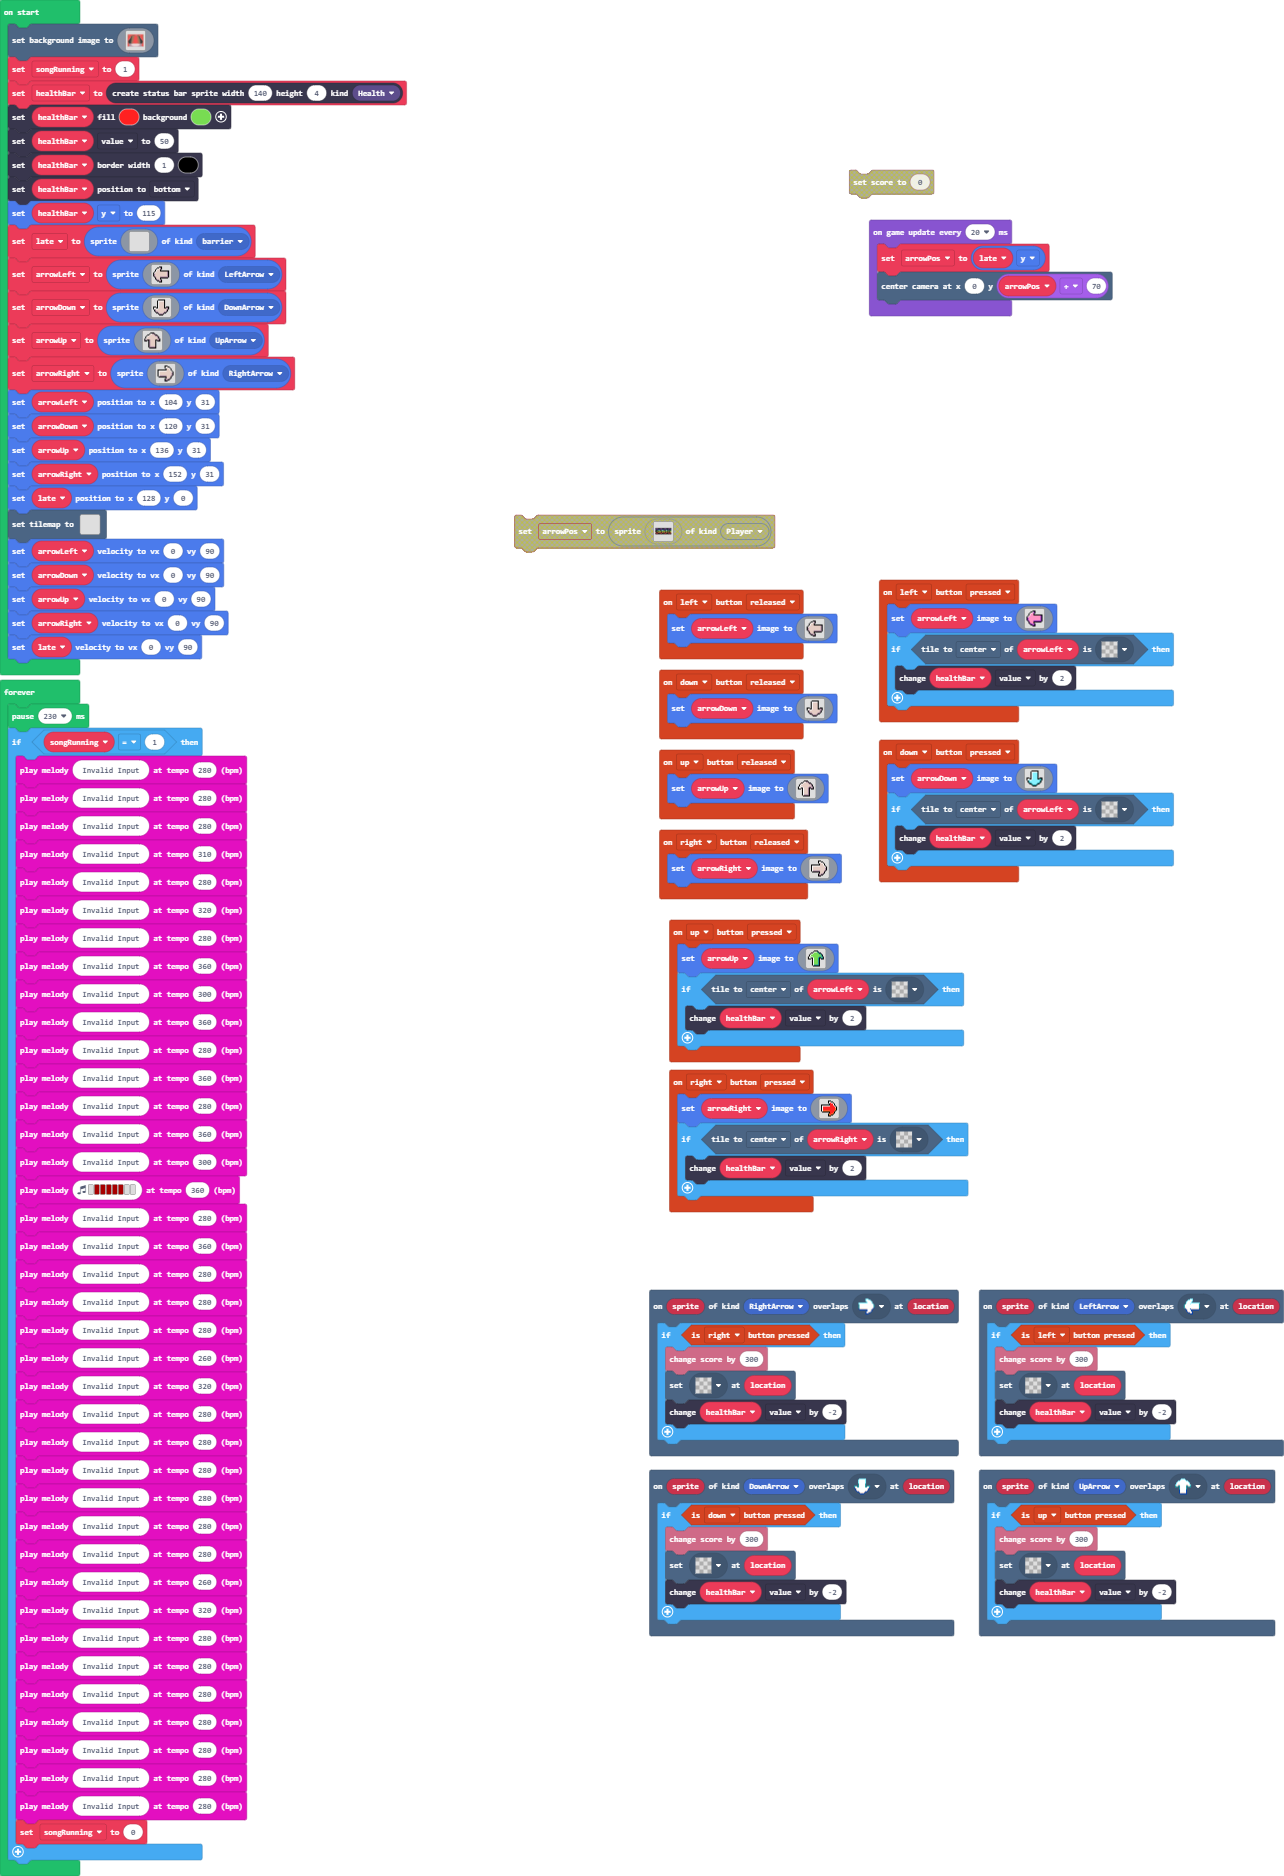
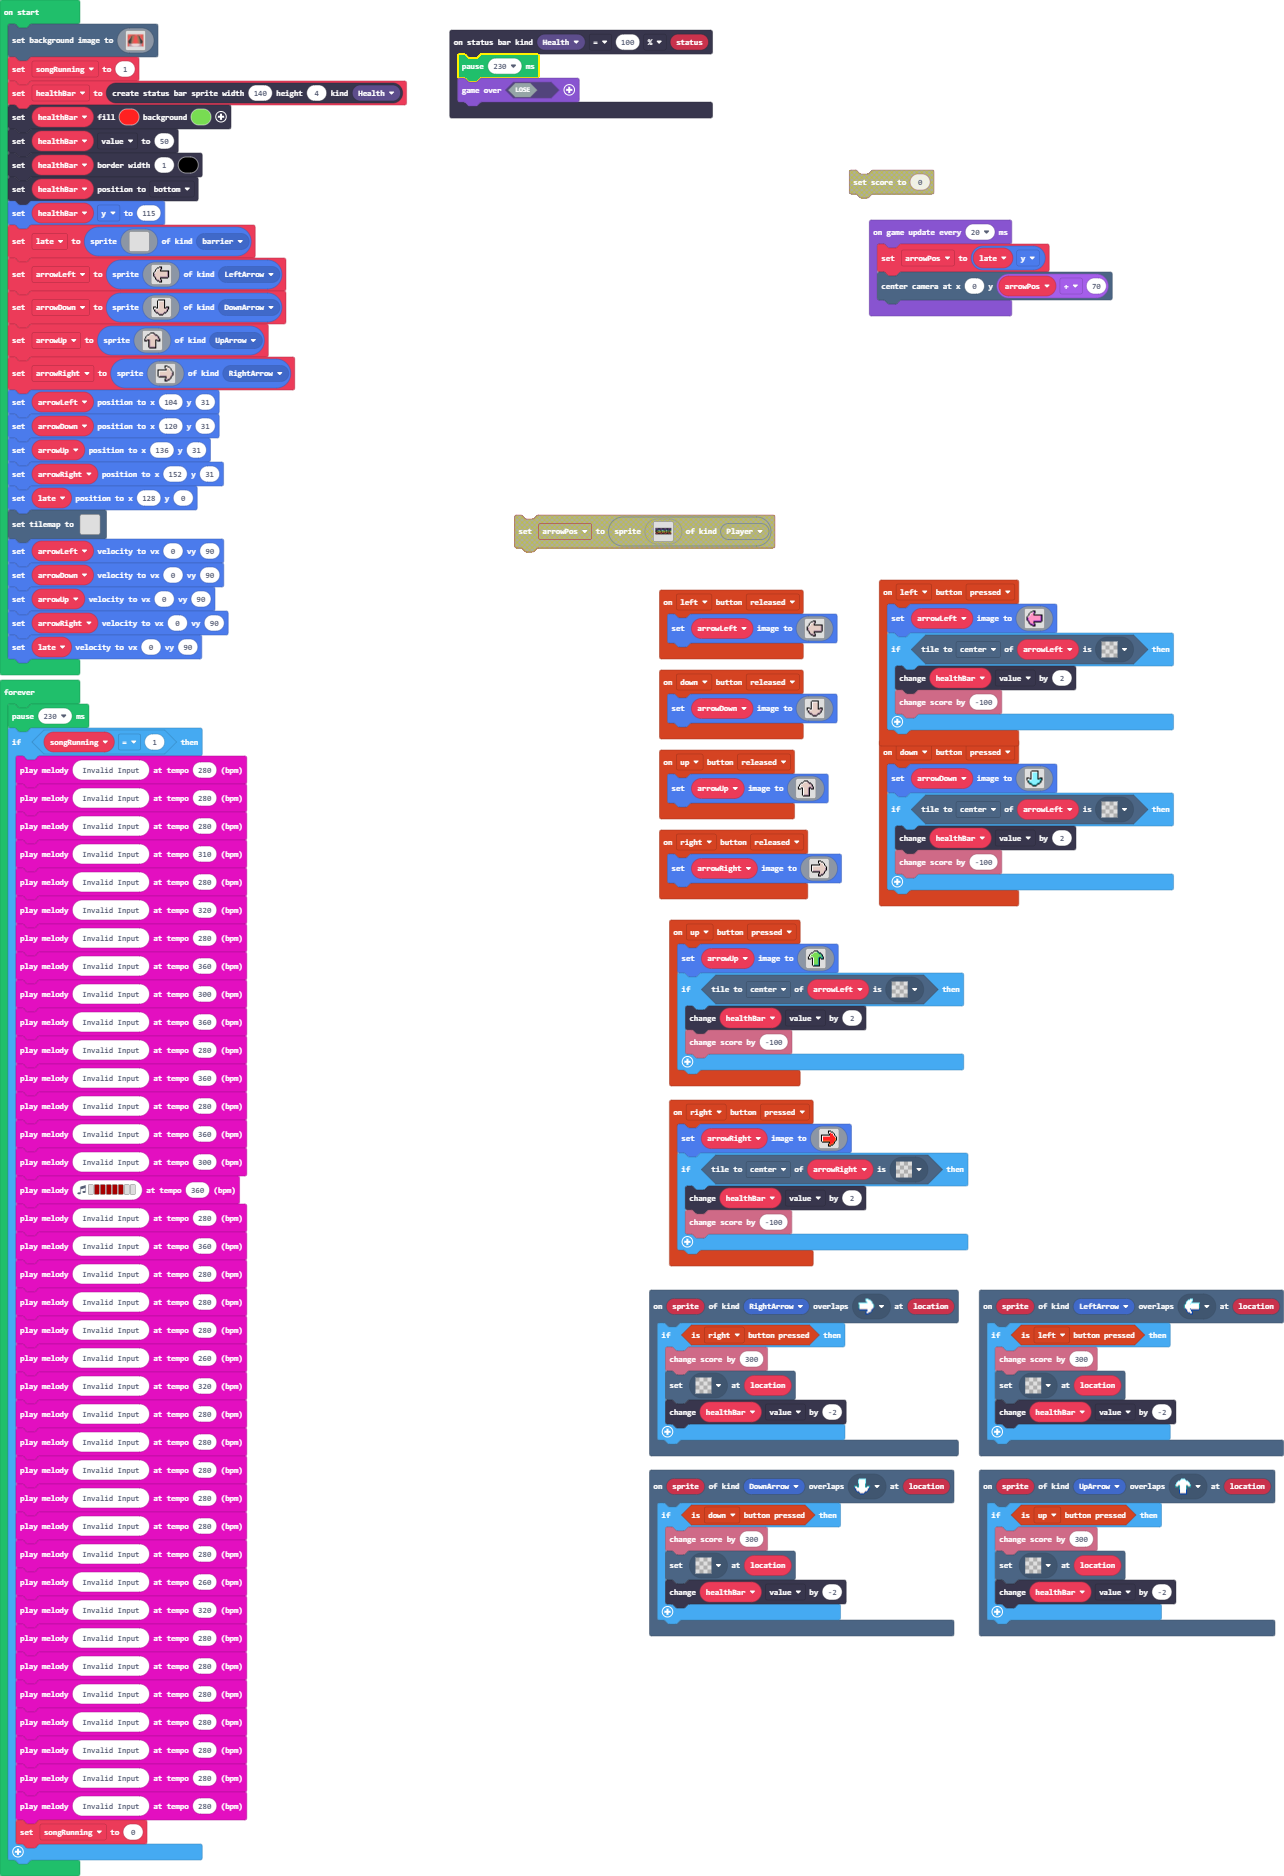
Update main.blocks, main.ts, tilemap.g.jres, tilemap.g.ts

diff --git a/main.ts b/main.ts
@@ -26,6 +26,7 @@ controller.up.onEvent(ControllerButtonEvent.Pressed, function () {
         `)
     if (arrowLeft.tileKindAt(TileDirection.Center, assets.tile`transparency16`)) {
         healthBar.value += 2
+        info.changeScoreBy(-100)
     }
 })
 scene.onOverlapTile(SpriteKind.UpArrow, assets.tile`myTile1`, function (sprite, location) {
@@ -76,6 +77,7 @@ controller.left.onEvent(ControllerButtonEvent.Pressed, function () {
         `)
     if (arrowLeft.tileKindAt(TileDirection.Center, assets.tile`transparency16`)) {
         healthBar.value += 2
+        info.changeScoreBy(-100)
     }
 })
 controller.right.onEvent(ControllerButtonEvent.Released, function () {
@@ -146,12 +148,13 @@ controller.right.onEvent(ControllerButtonEvent.Pressed, function () {
         `)
     if (arrowRight.tileKindAt(TileDirection.Center, assets.tile`transparency16`)) {
         healthBar.value += 2
+        info.changeScoreBy(-100)
     }
 })
 controller.up.onEvent(ControllerButtonEvent.Released, function () {
     arrowUp.setImage(img`
         . . . . . . f f f f . . . . . . 
-        . . . . . f 1 1 b b f . . . . . 
+        . . . . . f 1 1 1 b f . . . . . 
         . . . f f 1 d d d d b f f . . . 
         . . f 1 1 d d d d d d b b f . . 
         . f 1 d d d d d d d d d d b f . 
@@ -189,6 +192,7 @@ controller.down.onEvent(ControllerButtonEvent.Pressed, function () {
         `)
     if (arrowLeft.tileKindAt(TileDirection.Center, assets.tile`transparency16`)) {
         healthBar.value += 2
+        info.changeScoreBy(-100)
     }
 })
 scene.onOverlapTile(SpriteKind.LeftArrow, assets.tile`myTile0`, function (sprite, location) {
@@ -204,6 +208,10 @@ scene.onOverlapTile(SpriteKind.DownArrow, assets.tile`myTile`, function (sprite,
         tiles.setTileAt(location, assets.tile`transparency16`)
         healthBar.value += -2
     }
+})
+statusbars.onStatusReached(StatusBarKind.Health, statusbars.StatusComparison.EQ, statusbars.ComparisonType.Percentage, 100, function (status) {
+    pause(230)
+    game.over(false)
 })
 let arrowPos = 0
 let arrowRight: Sprite = null
@@ -396,7 +404,7 @@ arrowDown = sprites.create(img`
     `, SpriteKind.DownArrow)
 arrowUp = sprites.create(img`
     . . . . . . f f f f . . . . . . 
-    . . . . . f 1 1 b b f . . . . . 
+    . . . . . f 1 1 1 b f . . . . . 
     . . . f f 1 d d d d b f f . . . 
     . . f 1 1 d d d d d d b b f . . 
     . f 1 d d d d d d d d d d b f . 

diff --git a/tilemap.g.ts b/tilemap.g.ts
@@ -166,6 +166,25 @@ namespace myTiles {
 ..........
 ..........
 `, [myTiles.transparency16,myTiles.tile3,myTiles.tile2,myTiles.tile1,myTiles.tile5], TileScale.Sixteen);
+            case "level2":
+            case "level2":return tiles.createTilemap(hex`1000100000000000000000000000000000000000000000000000000000000000000000000000000000000000000000000000000000000000000000000000000000000000000000000000000000000000000000000000000000000000000000000000000000000000000000000000000000000000000000000000000000000000000000000000000000000000000000000000000000000000000000000000000000000000000000000000000000000000000000000000000000000000000000000000000000000000000000000000000000000000000000000000000000000000000000000000000000000000000000000000000000000000000000000000000000000000`, img`
+. . . . . . . . . . . . . . . . 
+. . . . . . . . . . . . . . . . 
+. . . . . . . . . . . . . . . . 
+. . . . . . . . . . . . . . . . 
+. . . . . . . . . . . . . . . . 
+. . . . . . . . . . . . . . . . 
+. . . . . . . . . . . . . . . . 
+. . . . . . . . . . . . . . . . 
+. . . . . . . . . . . . . . . . 
+. . . . . . . . . . . . . . . . 
+. . . . . . . . . . . . . . . . 
+. . . . . . . . . . . . . . . . 
+. . . . . . . . . . . . . . . . 
+. . . . . . . . . . . . . . . . 
+. . . . . . . . . . . . . . . . 
+. . . . . . . . . . . . . . . . 
+`, [myTiles.transparency16], TileScale.Sixteen);
         }
         return null;
     })
